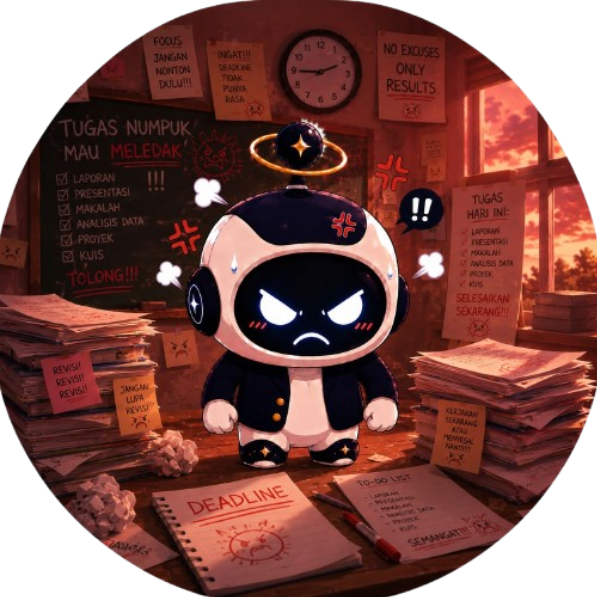
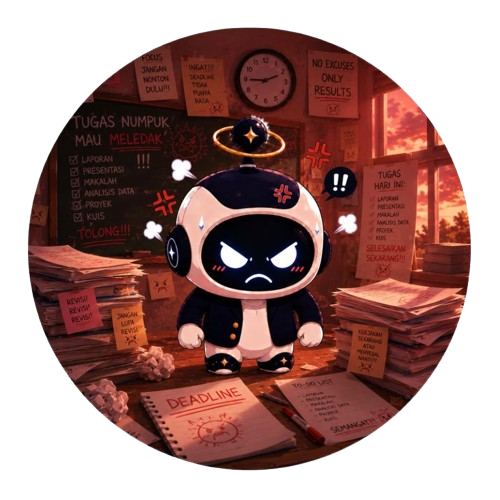
fixed alamr and image

diff --git a/src/utils/ics.ts b/src/utils/ics.ts
@@ -1,7 +1,9 @@
 export function generateICS(taskName: string, deadline: string) {
   const startDate = new Date(deadline);
-  // Default reminder 1 hour before, duration 1 hour
-  const endDate = new Date(startDate.getTime() + 60 * 60 * 1000);
+  startDate.setHours(10, 0, 0, 0);
+  
+  const endDate = new Date(startDate.getTime());
+  endDate.setHours(11, 0, 0, 0);
 
   const formatDate = (date: Date) => {
     return date.toISOString().replace(/[-:]/g, '').split('.')[0] + 'Z';